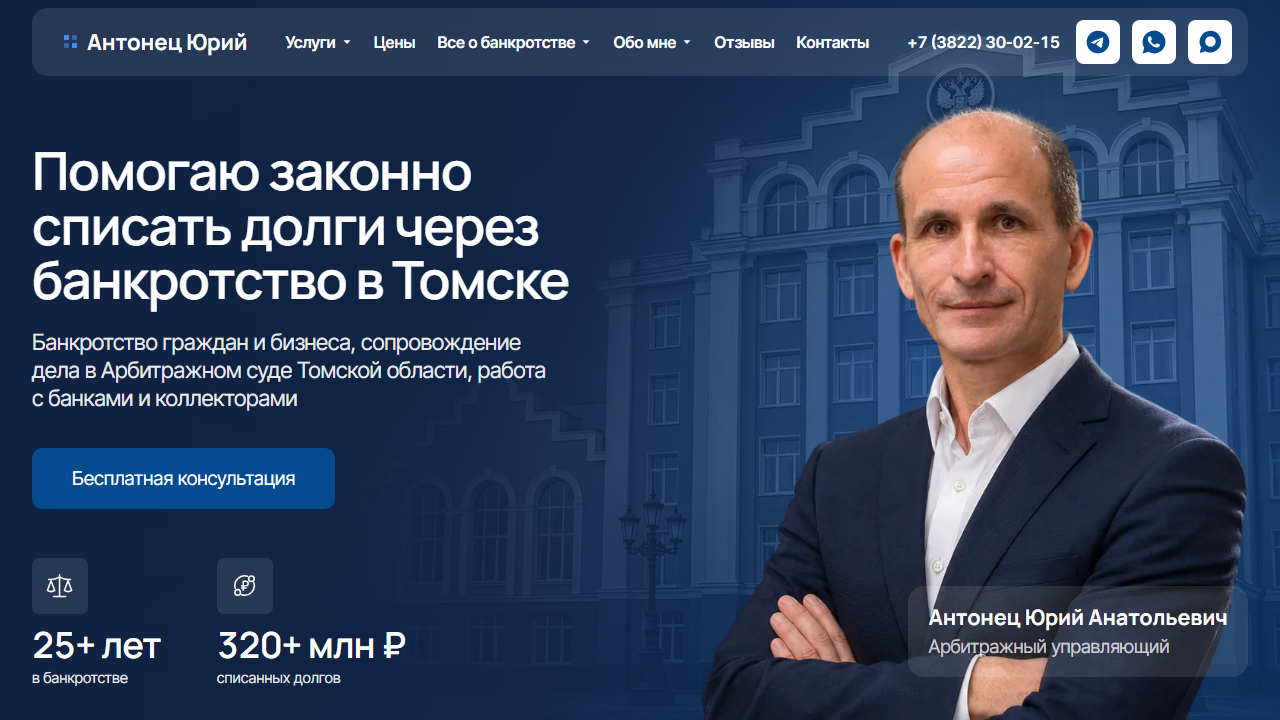
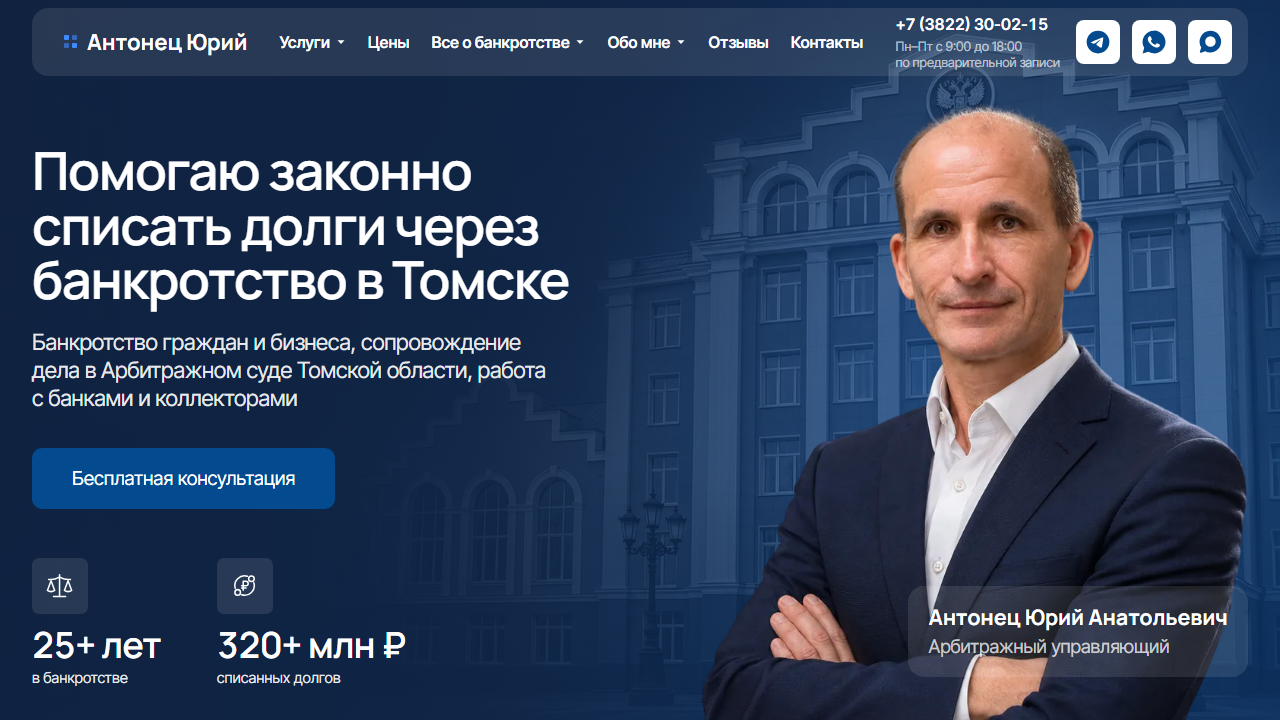
Шапка: график работы под телефоном (Пн–Пт 9–18, по предварительной записи)

Changed region(s): [[0.2188, 0.0, 0.8438, 0.0917]]

diff --git a/src/data/site.ts b/src/data/site.ts
@@ -42,8 +42,10 @@ export const contacts = {
   phoneHref: 'tel:+73822300215',
   phoneE164: '+73822300215',
   email: 'antonece@mail.ru',
-  /** ✖ уточнить; пока показываем «по предварительной записи» */
-  hours: 'Пн–Пт, по предварительной записи',
+  /** ◐ график из макета дизайнера (17.11.2026), подтвердить у Антонца; после подтверждения заполнить hoursSchema */
+  hours: 'Пн–Пт с 9:00 до 18:00, по предварительной записи',
+  hoursDays: 'Пн–Пт с 9:00 до 18:00',
+  hoursNote: 'по предварительной записи',
   hoursSchema: '', // напр. 'Mo-Fr 09:00-18:00'
   // мессенджеры: пустая строка = кнопка не выводится
   telegram: '',
